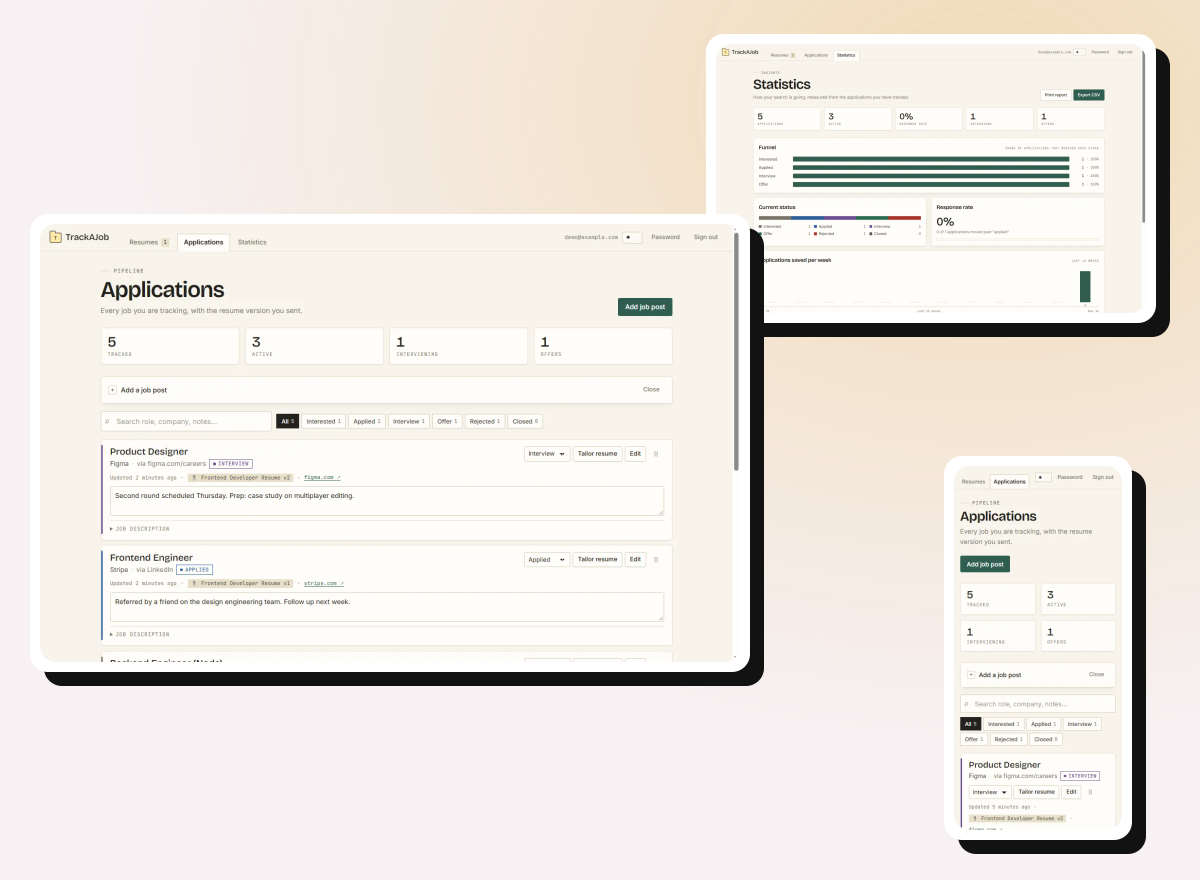
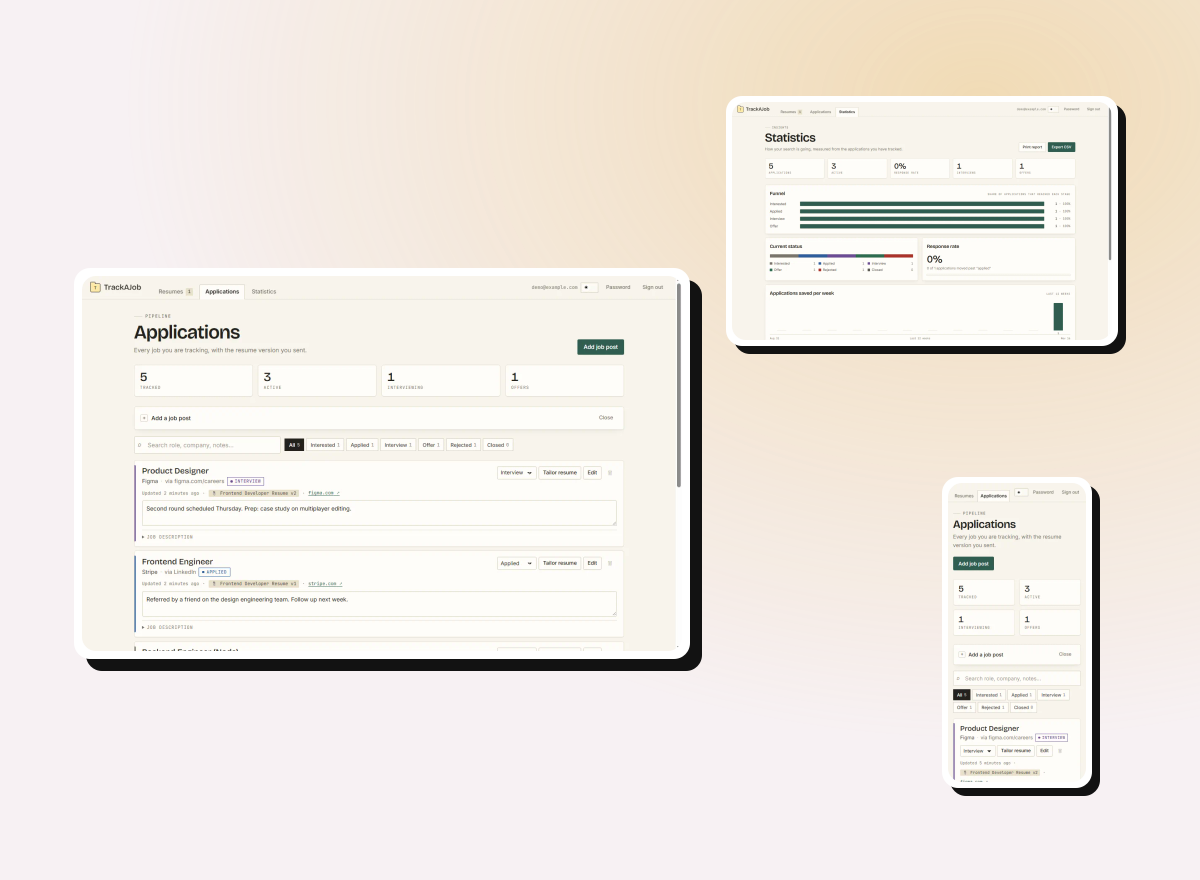
fix(tile): give the TrackAJob homepage tile artwork that fits its shape
The homepage tile is a tall grid cell: measured in the browser at 1440px it renders
238x682, a 0.349 ratio. A 16:9 product screenshot cannot fill that shape. `cover`
sliced the left half off (turning "Applications" into "ations") and `contain`
stranded a thin strip in empty space, so both attempts looked broken.

- The tile now uses BRAND ARTWORK when a project supplies it: a mark, the product
  name and the promise, centred with negative space, in the same spirit as the
  Animations tile that already works at this size.
- New optional `imageTall` frontmatter field; `image` is unchanged for the projects
  listing, which is near 16:9 and takes a screenshot composition well.
- ProjectTile hardcoded width=1200 height=880 for every image, so the browser
  reserved a 1.36 box for a 0.349 portrait file and painted a zoomed-in corner of
  it. Dimensions now describe the actual artwork.

Also fixes a trap worth knowing about: Next's image optimizer caches by URL, so
regenerating a file in place keeps serving the OLD bytes for that URL (it returned
384x524 for a file that was 700x2006 on disk). Clear `.next/cache/images` after
regenerating artwork, or the change appears not to take effect.

Verified in a fresh headless browser with the cache cleared: the tile requests
thumbnail-tall.png at 0.349, and the listing still renders the wide composition.

diff --git a/components/projects/projectTile/ProjectTile.tsx b/components/projects/projectTile/ProjectTile.tsx
@@ -21,6 +21,16 @@ export const ProjectTile = memo<ProjectTileProps>(({ project }) => {
     },
   };
 
+  // The tile is a tall, narrow grid cell; prefer portrait artwork when a project
+  // supplies it, because cropping a wide screenshot to this shape leaves a slice.
+  const artwork = project.imageTall ?? project.image;
+
+  // Intrinsic size must describe the ACTUAL file. Hardcoding 1200x880 made the
+  // browser reserve a 1.36 box for a 0.349 portrait image, so the tile painted a
+  // zoomed-in corner of it.
+  const isPortrait = Boolean(project.imageTall);
+  const intrinsic = isPortrait ? { width: 700, height: 2006 } : { width: 1200, height: 880 };
+
   return (
     // next/link instead of a raw <a>: this is an internal route, so it should be
     // prefetched and use client navigation instead of a full document load.
@@ -28,10 +38,10 @@ export const ProjectTile = memo<ProjectTileProps>(({ project }) => {
       <span className="sr-only">check my project - {project.title}</span>
       <motion.div className={styles.mockup} variants={imageVariants} whileHover="hover">
         <Image
-          src={project.image}
+          src={artwork}
           alt={project.title}
-          height="880"
-          width="1200"
+          width={intrinsic.width}
+          height={intrinsic.height}
           sizes="(max-width: 640px) 100vw, (max-width: 1100px) 50vw, 420px"
         />
       </motion.div>

diff --git a/types/index.ts b/types/index.ts
@@ -69,6 +69,12 @@ export type Project = {
   repoUrl: string;
   stack: string[];
   image: string;
+  /**
+   * Optional portrait artwork for the homepage tile, which is a tall grid cell
+   * (about 0.46 ratio). A wide screenshot cannot fill it without being cropped to a
+   * slice, so projects can supply a stacked alternative. Falls back to `image`.
+   */
+  imageTall?: string;
   author: Author;
   category: Category;
 };

diff --git a/components/projects/projectTile/projectTile.module.scss b/components/projects/projectTile/projectTile.module.scss
@@ -27,7 +27,10 @@
     img {
       width: 100%;
       height: 100%;
+      // `cover` is correct now that a project can supply portrait artwork for this
+      // tall cell (`imageTall`). Projects without one still get a centre crop.
       object-fit: cover;
+      object-position: center;
     }
   }
 
